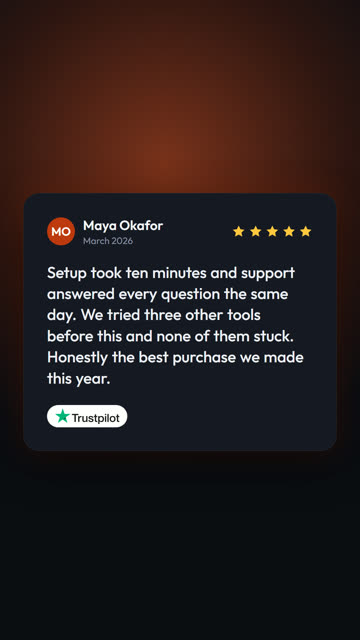
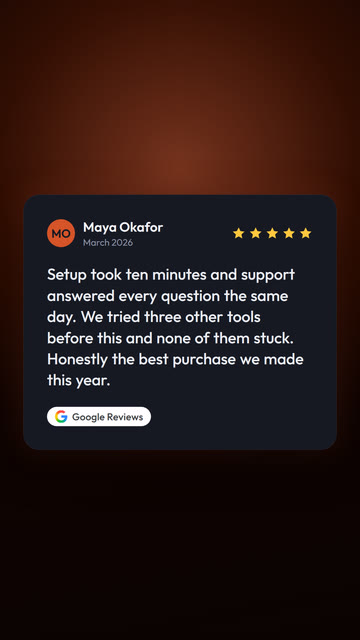
docs(video): palette, styles and player in README; regenerate template thumbnails
Claude-Session: https://claude.ai/code/session_01Jdp1X4F8EuY5zfgEYQR5Vy

Changed region(s): [[0.1222, 0.3125, 0.8556, 0.6875], [0.6417, 0.3438, 0.8861, 0.375]]

diff --git a/packages/video/README.md b/packages/video/README.md
@@ -15,6 +15,36 @@ Node render service the video worker uses.
 
 Each template renders in `9:16` and `16:9`. Video length comes from the text (see `registry.ts`).
 
+## Colours, styles and the `theme` prop
+
+Templates never hard-code colours. They call `derivePalette(brand, { style, secondary })` (`src/lib/palette.ts`),
+which builds every colour a template needs from the customer's brand colour:
+
+- **Keep the brand colour.** A light brand colour stays light and gets dark text; a dark one stays dark with
+  light text. A colour is only nudged when no text colour can be read on it, and by the smallest amount that works.
+- **Text is at least 4.5:1 (WCAG AA)** against the worst point of the background gradient. Accent colours are
+  adjusted for the surface they sit on (white card, dark card), never the other way round.
+- `secondary` is an optional second colour used as the far end of the gradient (colour styles only).
+
+Six background styles are available on every template (`BACKGROUND_STYLES` / `STYLES` in `src/types.ts` and
+`src/registry.ts`, drawn by `components/Backdrop.tsx`):
+
+| style | Look |
+| --- | --- |
+| `gradient` | Brand colour deepening into a richer shade |
+| `solid` | One flat brand colour with soft shapes |
+| `aurora` | Blurred glows of the colour drifting around |
+| `dots` | Subtle dot pattern over the colour |
+| `light` | Paper tinted with the colour |
+| `dark` | Near-black with a glow of the colour |
+
+Each template has a `defaultStyle` (`minimal` is `light`, `dark-card` is `dark`, the rest `gradient`).
+`ReviewVideoProps` takes an optional `theme: { style?, secondary? }`; with no `style` the template's default is
+used (`effectiveStyle()` in `registry.ts` returns what will actually render).
+
+In the dashboard the defaults come from the brand kit (`videoStyle`, `videoSecondaryColor`) and can be overridden
+per video with `style` / `secondaryColor` on create.
+
 ## Rules the templates follow
 
 - **Reviews are verbatim.** Templates never shorten, reword or reorder review text. A review that
@@ -38,7 +68,8 @@ src/registry.ts        catalogue, validation, durations. Browser-safe: no Remoti
 src/types.ts           ReviewVideoProps and friends
 src/templates/*.tsx    one component per template; templates/index.ts maps id -> component
 src/components/        shared building blocks (stars, word reveal, avatar, badge, layout helpers)
-src/lib/               colour helpers, font loading
+src/lib/               colour helpers, palette derivation (palette.ts), font loading
+src/player.tsx         browser preview (Remotion Player), exported as @vouchreel/video/player
 src/Root.tsx           registers every template x shape as a Remotion composition
 src/render.ts          Node-only render service (bundle once, renderMedia / renderStill)
 src/sample.ts          made-up reviews for previews and tests (never shown to customers)
@@ -52,7 +83,7 @@ scripts/bundle.ts      pre-build the compositions (used by the Docker image)
 2. Write the component in `src/templates/` (use `components/primitives.tsx`; design for a 1080px short side
    and multiply by `u` from `useLayout()`).
 3. Register it in `src/templates/index.ts` and add sample props in `src/sample.ts`.
-4. Add a 360x640 preview to `apps/dashboard/public/video-previews/<id>.jpg`.
+4. Add a 360x640 preview to `apps/dashboard/public/video-previews/<id>.jpg` (see "Regenerating template thumbnails").
 
 `src/__tests__/registry.test.ts` fails if a template has no component, or the sample content does not validate.
 
@@ -63,7 +94,37 @@ npm run studio -w @vouchreel/video     # Remotion Studio: live preview with samp
 npm run preview -w @vouchreel/video -- --template=stack --aspect=9:16 --times=3,12 --video
 ```
 
-Stills and videos are written to `packages/video/out/` (git-ignored).
+Add `--style=aurora` (or `--style=all`), `--brand=#0a7d5a`, `--secondary=#1d4ed8` or `--source=trustpilot` to
+preview a theme. Stills and videos are written to `packages/video/out/` (git-ignored).
+
+On a machine where Remotion cannot download its own browser (or when running as root), point it at a
+headless Chrome and disable the sandbox: `REMOTION_BROWSER_EXECUTABLE=/path/to/headless_shell VIDEO_CHROMIUM_NO_SANDBOX=1`.
+Recent full Chrome builds refuse Remotion's headless mode; use the `chrome-headless-shell` binary.
+
+### Regenerating template thumbnails
+
+The template picker shows `apps/dashboard/public/video-previews/<id>.jpg` (360x640). Regenerate them whenever
+a template or the palette changes, from a frame where the text has finished revealing (`rating-spotlight`: the
+rating intro, around 2.6 s):
+
+```bash
+npm run preview -w @vouchreel/video -- --template=minimal --aspect=9:16 --times=9.5
+ffmpeg -i packages/video/out/minimal-9x16-t9.5.png -vf scale=360:640:flags=lanczos -q:v 3 apps/dashboard/public/video-previews/minimal.jpg
+```
+
+Frames used for the current thumbnails: spotlight, minimal and dark-card 9.5 s, stack 9 s, rating-spotlight 2.6 s.
+
+### Tests
+
+`npm test -w @vouchreel/video` runs the unit tests. `npm run test:render -w @vouchreel/video` additionally renders
+the aurora, dots and light styles in real Chromium (slow; skipped by default, not run in CI).
+
+## Live preview in the dashboard
+
+`@vouchreel/video/player` exports `ReviewVideoPreview`, the real composition rendered live by Remotion's `Player`,
+so the Brand page and the create dialog show exactly what the render produces. It needs the fonts served from a
+public URL (`fontBaseUrl`, the dashboard uses `/video-fonts`, files in `apps/dashboard/public/video-fonts`). It is
+browser-only: the server-side renderer never imports it.
 
 ## Rendering in production
 

diff --git a/docs/plan-2026-10-05-remaining-work.md b/docs/plan-2026-10-05-remaining-work.md
@@ -46,6 +46,11 @@ Phases are ordered by risk first, then admin visibility, then polish. Each phase
 2. Update `packages/video/README.md` (palette, 6 styles, `theme` prop, `/player` export).
 3. Optional: swap CSS-approximated style swatches for rendered thumbnails.
 
+**Phase 2 status (2026-10-05)**
+- Item 1 thumbnails: DONE. All five `apps/dashboard/public/video-previews/*.jpg` regenerated at 360x640 from the palette-based templates (9:16, template default styles, sample text), using frames where the text has finished revealing (rating-spotlight shows its rating intro). Checked visually in a contact sheet; Minimal is now tinted, as expected. Not checked in the running dashboard picker.
+- Item 2 README: DONE. `packages/video/README.md` now covers the palette rules, the six styles and per-template defaults, the `theme` prop, the `/player` export, preview flags, thumbnail regeneration steps, and both test commands.
+- Item 3 style swatches: NOT DONE (optional). The picker swatches in `apps/dashboard/components/brand/video-style-picker.tsx` are still CSS approximations; the live preview is exact.
+
 ### Phase 3: Admin area (new)
 1. **Video & jobs tab** (read first, then actions):
    - Queue summary by status and type, failed jobs with `lastError`, oldest queued age.
